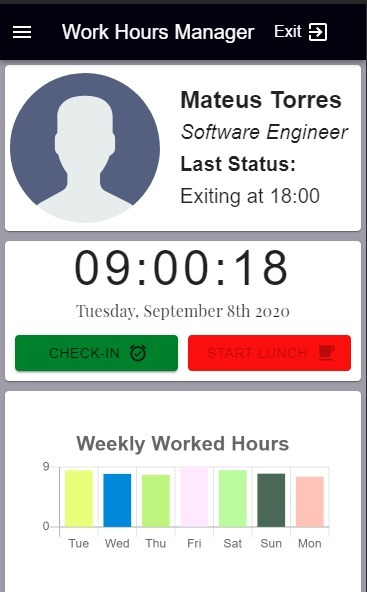
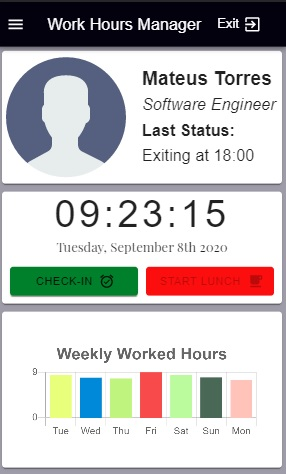
add imgs

diff --git a/src/main/home/Home.tsx b/src/main/home/Home.tsx
@@ -140,21 +140,7 @@ function HomeToolbar(props: { logout: () => void }) {
 }
 
 
-function ChartMonthlyInvoke() {
-    const { workRecords } = useWorkRecords()
-    const colors = ["red", "blue"]
-    return <Chart<number>
-        min={0}
-        max={100}
-        fetchColor={type => colors[[10, 20].indexOf(type)]}
-        fetchLegend={type => type.toString()}
-        fetchValue={type => 10}
-        items={[10, 20]}
-        title="Monthly Worked Hours"
-        legendPosition={"bottom"}
-        type={"doughnut"}
-    />
-}
+
 
 function ChartWeeklyInvoke() {
     const { weeklyWorkReport } = useWorkRecords()
@@ -164,7 +150,7 @@ function ChartWeeklyInvoke() {
         "#e7ff7b",
         "#0088d9",
         "#bff47f",
-        "#ffe9ff",
+        "#f74a4a",
         "#bcfa9e",
         "#496956",
         "#ffc3ba"
@@ -209,14 +195,9 @@ const Home = (props: PropsHome) => {
                         </Box>
                         <Box component={Paper} margin={1} display="flex" flex={1} p={4}>
                             <Grid container>
-                                <Grid xs={12} md={6} item>
+                                <Grid xs={12} item>
                                     <Box display="flex" height="100%" justifyContent="center" flexDirection="column" alignItems="center">
                                         <ChartWeeklyInvoke />
-                                    </Box>
-                                </Grid>
-                                <Grid xs={12} md={6} item>
-                                    <Box display="flex" height="100%" justifyContent="center" flexDirection="column" alignItems="center">
-                                        <ChartMonthlyInvoke />
                                     </Box>
                                 </Grid>
                             </Grid>

diff --git a/README.md b/README.md
@@ -58,6 +58,7 @@ Access [http://localhost.com:3000](http://localhost.com:3000)
 All Set!
 
 ![alt tag](https://github.com/MateusVT/Work-Hours-Manager/blob/master/public/imgs/login.jpg)
+![alt tag](https://github.com/MateusVT/Work-Hours-Manager/blob/master/public/imgs/home.jpg)
 ![alt tag](https://github.com/MateusVT/Work-Hours-Manager/blob/master/public/imgs/home-mobile.jpg)
 
 You should be able to use the application now!
